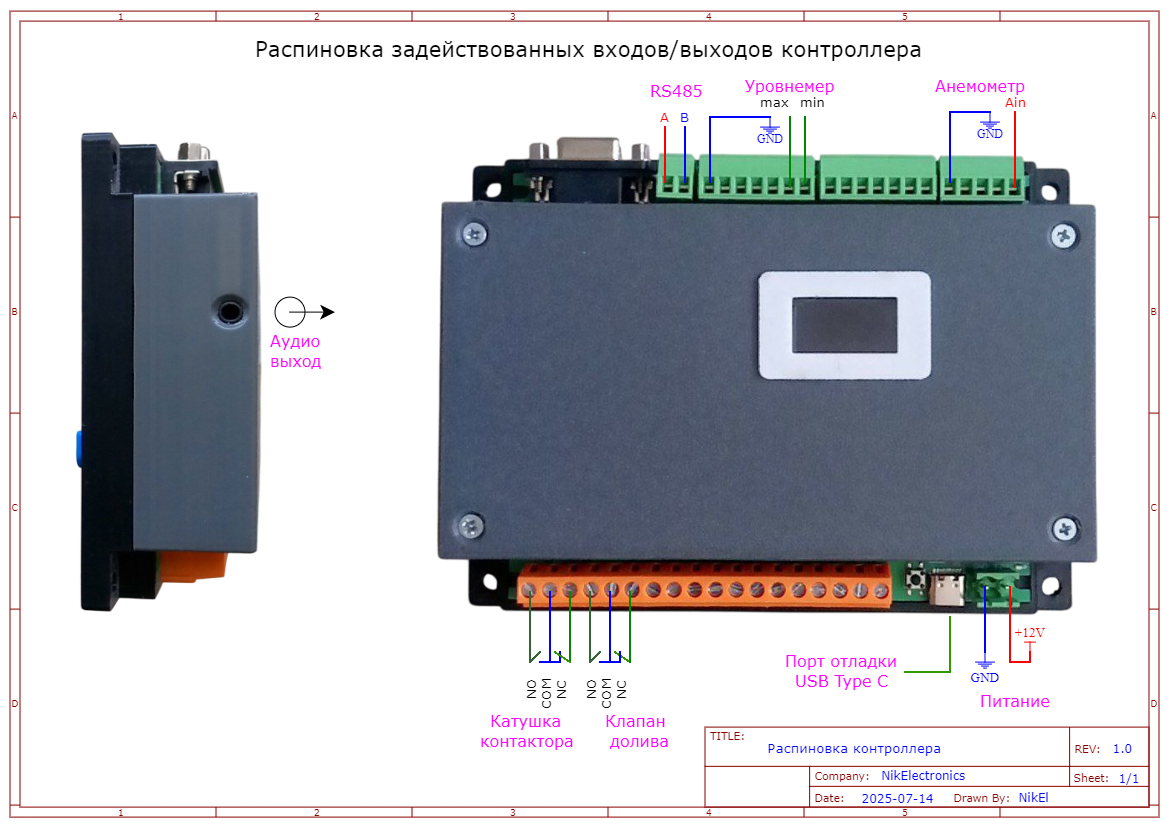
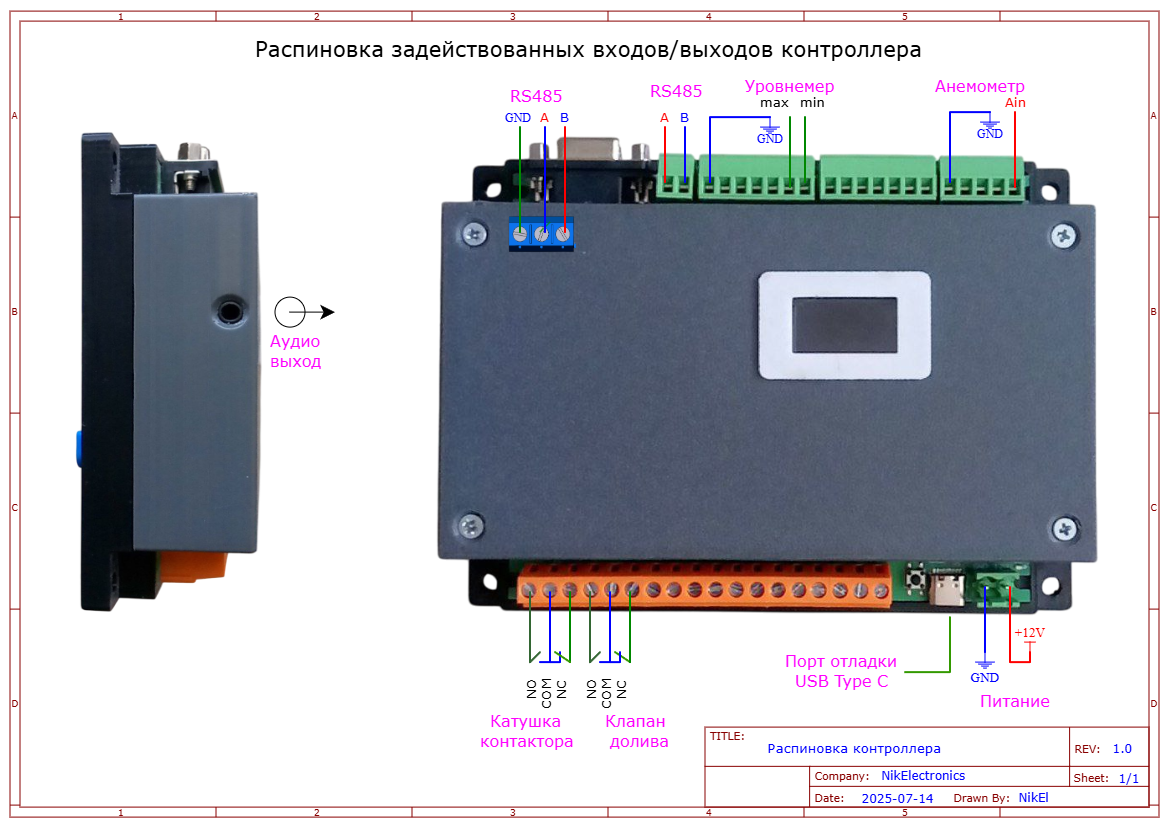
screenshots new

Changed region(s): [[0.4311, 0.0906, 0.4927, 0.3019], [0.7083, 0.936, 0.7699, 0.9662], [0.6467, 0.1208, 0.6775, 0.151]]

diff --git a/pinout.html b/pinout.html
@@ -616,9 +616,9 @@
                     </li>
                 </ol>
                 
-                <div class="warning">
-                    <i class="fas fa-exclamation-triangle" style="margin-right: 8px;"></i> 
-                    <strong>Важно:</strong> При подключении питания соблюдайте полярность! Нарушение полярности может привести к выходу контроллера из строя.
+                <div class="warning" style="background: #ffebee; border-left: 5px solid #d32f2f; padding: 1rem 1.2rem;">
+                    <i class="fas fa-exclamation-triangle" style="color: #d32f2f; margin-right: 8px; font-size: 1.1rem;"></i> 
+                    <strong style="color: #d32f2f; font-size: 1rem;">ВНИМАНИЕ!</strong> <span style="color: #c62828; font-weight: 500;">При подключении питания категорически запрещается нарушать полярность! Неправильное подключение приведет к мгновенному выходу контроллера из строя и не подлежит гарантийному ремонту.</span>
                 </div>
             </div>
 

diff --git a/controller.html b/controller.html
@@ -529,7 +529,7 @@
             </div>
 
             <div class="screenshot-container">
-                <img src="screenshots/controller_image.jpg" alt="Изображение контроллера" class="screenshot">
+                <img src="screenshots/controller_image.png" alt="Изображение контроллера" class="screenshot">
                 <div class="caption">Рис. 1 - Пример построения автоматики фонтана</div>
             </div>
 